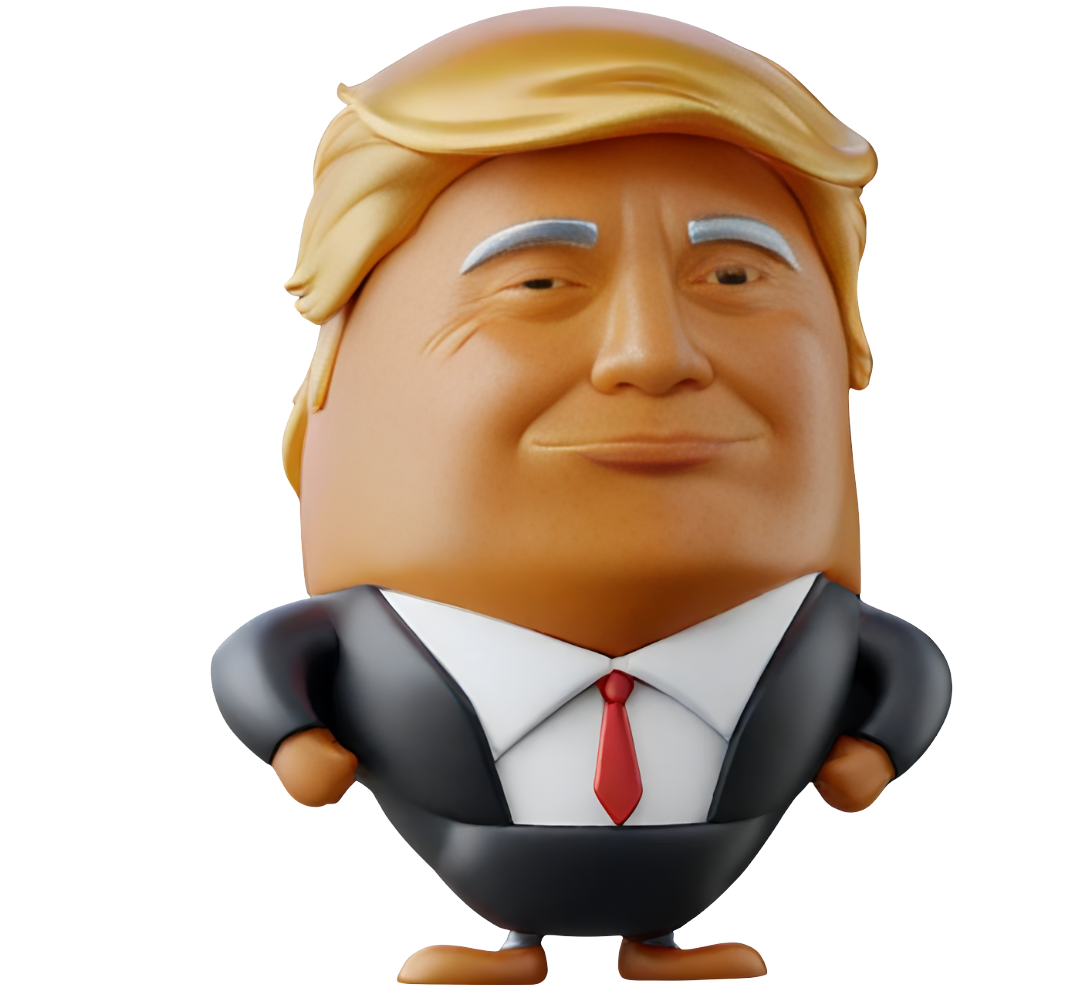
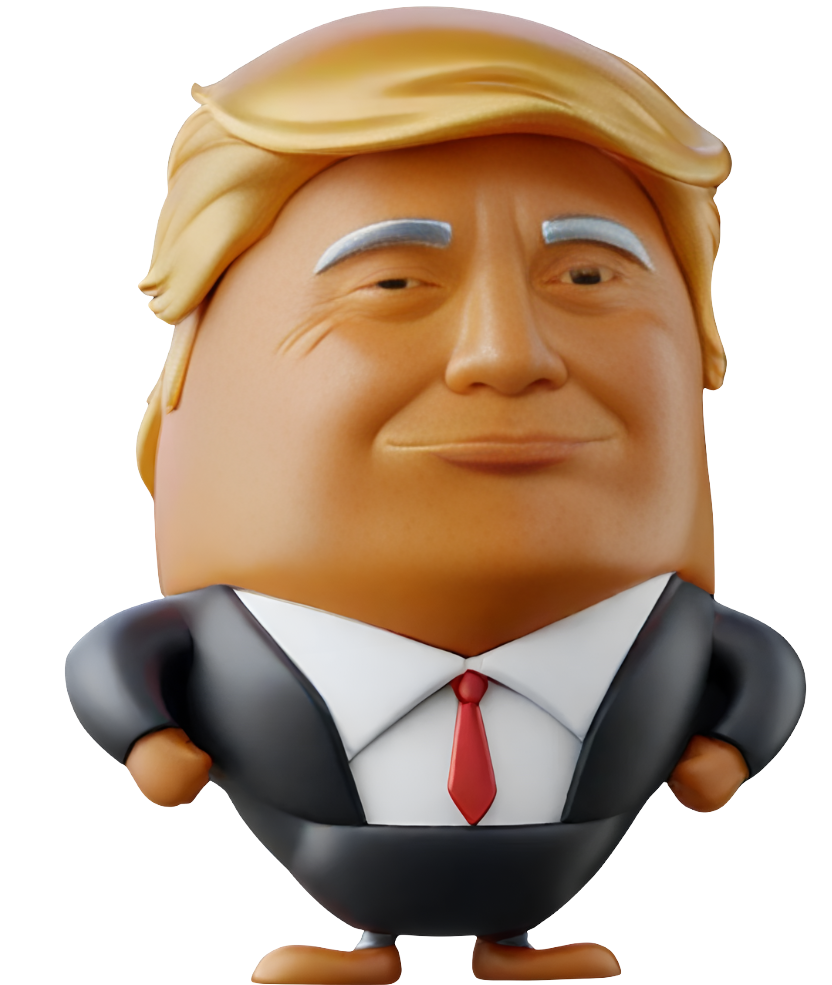
adjusting the mobile ui

diff --git a/src/app/_components/leaderboard.tsx b/src/app/_components/leaderboard.tsx
@@ -28,21 +28,21 @@ export const CountryVoteUi : React.FC<{countryVotes: CountryInfoDb  , index : nu
                             break;
                 
     }
-    return <div className="w-full flex relative countryLeaderBoardItem   items-center  px-4" >   
-    <div  className="flex items-center w-[30%]   gap-3 " >
-    <div className="min-w-[50px] max-w-[50px] flex items-center justify-center relative" >{medalSrcImg ? <img src={medalSrcImg} alt="medal" className="w-full " /> :  <h3 className="text-2xl  block  font-bold "  >#{index + 1 }</h3>}</div>
-    <img src={`/flags/${countryVotes.countrySymbol.trim().toLocaleLowerCase()}.png`} className="w-[74px] border border-black " />
+    return <div className="w-full flex relative countryLeaderBoardItem   items-center px-1  lg:px-4" >   
+    <div  className="flex items-center w-[30%] gap-1   lg:gap-3 " >
+    <div className="min-w-[30px] max-w-[30px] lg:min-w-[50px] lg:max-w-[50px] flex items-center justify-center relative" >{medalSrcImg ? <img src={medalSrcImg} alt="medal" className="w-full " /> :  <h3 className="text-lg lg:text-2xl  block  font-bold "  >#{index + 1 }</h3>}</div>
+    <img src={`/flags/${countryVotes.countrySymbol.trim().toLocaleLowerCase()}.png`} className="w-[30px] lg:w-[74px] border border-black " />
     <h4 style={{color : "black" , margin: 0  , textAlign: "start"}} className="H6 " >{countryName}</h4>
     </div>
-    <div className="w-full flex px-2 py-8 items-center justify-between" >
-     <div className="w-full flex  items-center justify-end  gap-2  " >
-     <h6 style={{color : "black" , margin: 0}} className="H6" >{countryVotes.trump.toLocaleString()}</h6>
+    <div className="w-full flex px-2 py-3 lg:py-8 items-center justify-between" >
+     <div className="w-full flex  items-center justify-end  gap-1 lg:gap-2  " >
+     <h6 style={{color : "black" , margin: 0}} className="H6 " >{countryVotes.trump.toLocaleString()}</h6>
 
-    <img  src="/trumpBody.png" className="w-[53px]" />
+    <img  src="/trumpBody.png" className="w-[53px] " />
     <h4 style={{color : "black" , margin: 0}} className="H6 hidden lg:block" >Trump</h4>
 
      </div>
-     <div className="w-full flex items-center  justify-end gap-2 " >
+     <div className="w-full flex items-center  justify-end gap-1 lg:gap-2 " >
      <h6 style={{color : "black" , margin: 0}} className="H6 " > {countryVotes.biden.toLocaleString()}</h6>
 
     <img  src="/harisImg.png" className="w-[53px]" />
@@ -113,10 +113,10 @@ if(acc.biden + acc.trump < countryVotes.biden+ countryVotes.trump) return countr
 else return acc
      }) : undefined
     return        <motion.div  initial={{y : 0}} animate={openLeaderboardAnimation} className={cn("  absolute bottom-0  w-full  mt-4 h-[65px] overflow-hidden   flex flex-col" , {"h-fit overflow-visible" : leaderboardOpened} )} >
-    <div className="px-8 py-4 bg-white bg-opacity-55 backdrop-blur rounded-t-lg   flex items-center justify-between" >
-    { greatestCountry ?  <div className="flex gap-1 items-center  " ><h4 style={{margin : 0 , color : "black" }} className="H7" >#1</h4>    <img src={`/flags/${greatestCountry.countrySymbol?.trim().toLowerCase()}.png`}  width="50px" /><h6 className="H7" style={{margin : 0 , color : "black"}} >{ (greatestCountry.trump + greatestCountry.biden).toLocaleString() }</h6>    </div> : <div className="skeleton w-40 h-8" ></div> }
-    <div className="flex gap-4 items-center  " >
-    <img src={`/flags/${countrySymbol?.trim().toLowerCase()}.png`}  width="50px" />
+    <div className="px-3 lg:px-8 py-6 lg:py-4 bg-white bg-opacity-55 backdrop-blur rounded-t-lg   flex items-center justify-between" >
+    { greatestCountry ?  <div className="flex gap-1 items-center  " ><h4 style={{margin : 0 , color : "black" }} className="H7" >#1</h4>    <img src={`/flags/${greatestCountry.countrySymbol?.trim().toLowerCase()}.png`}  className="w-[30px] lg:w-[50px]" /><h6 className="H7" style={{margin : 0 , color : "black"}} >{ (greatestCountry.trump + greatestCountry.biden).toLocaleString() }</h6>    </div> : <div className="skeleton w-40 h-8" ></div> }
+    <div className="flex gap-1 lg:gap-4 items-center  " >
+    <img src={`/flags/${countrySymbol?.trim().toLowerCase()}.png`}  className="w-[30px] lg:w-[50px]" />
     <h6 className="H7" style={{margin : 0 , color : "black"}}>{ (totalCountryVotes?.toLocaleString()) || 0 }</h6>
     {leaderboardOpened ? <img onClick={closeLeaderBoard} src="/icons/dropDown.svg " className="w-[25px] rotate-180 cursor-pointer" /> :  <div className="relative"  ><img className="absolute -left-10 -top-20 min-w-[100px] min-h-[100]"  src="/clickAnimation.gif" /> <img onClick={openLeaderBoard} src="/icons/dropDown.svg " className="w-[25px]  z-50 relative cursor-pointer" /></div>}
     </div>

diff --git a/src/app/_components/votingUi.tsx b/src/app/_components/votingUi.tsx
@@ -81,12 +81,12 @@ const handleBidenClick = ()=>{
    <img  className="w-[300px] lg:w-[250px] " src="/trumpText.png" />
    <div className="relative flex items-center justify-center  overflow-visible h-fit " >
     {votingTrump &&  <img src="/animationPic.gif" className="absolute z-10 min-w-[350px]  lg:min-w-[500px]  "  />}
-    <img    className="w-[380px] lg:w-[300px] relative z-20 cursor-pointer" onClick={handleTrumpClick} src="/trumpBody.png" /></div>
+    <img    className="w-[380px] lg:w-[200px] relative z-20 cursor-pointer" onClick={handleTrumpClick} src="/trumpBody.png" /></div>
    </div>
-   <div className="flex flex-col pt-28 lg:pt-8 w-[300px]  gap-4 items-center justify-between " >
+   <div className="flex flex-col pt-5 lg:pt-8 w-[300px]  gap-4 items-center justify-between " >
    <div className="z-0  absolute top-1/2 flex  justify-center left-1/2 w-7/12 -translate-x-1/2 -translate-y-1/2" >
    <img src="/vsBg.png" className="absolute z-[1]  lg:hidden opacity-70  top-1/2 left-1/2 -translate-x-1/2 -translate-y-1/2 w-full"  />
-   <img src="/vs.png"  className="z-[2]  w-[180px] -translate-y-12 lg:-translate-y-28" />
+   <img src="/vs.png"  className="z-[2] w-[120px]  lg:w-[180px] -translate-y-12 lg:-translate-y-28" />
    </div>
 <div className="mt-20" ><TotalVotes/></div>
 <div className="hidden lg:block" >   <MyVotesSection/></div>
@@ -98,7 +98,7 @@ const handleBidenClick = ()=>{
    <img className="w-[300px] lg:w-[250px] " src="/harisName.png" />
    <div className="relative flex items-center justify-center  overflow-visible h-fit " >
    {votingBiden &&  <img src="/animationPic.gif" className="absolute z-10 min-w-[350px]  lg:min-w-[500px]  "  />}
-   <img className="w-[380px] lg:w-[300px] z-20  cursor-pointer"  onClick={handleBidenClick} src="/harisImg.png" />
+   <img className="w-[380px] lg:w-[200px] z-20  cursor-pointer"  onClick={handleBidenClick} src="/harisImg.png" />
    </div>
    </div>
 

diff --git a/src/app/page.tsx b/src/app/page.tsx
@@ -21,14 +21,13 @@ export default async function Home() {
 
   
    return (
-    <main style={{minHeight : "100vh"}} className="lg:max-w-[1500px] h-fit pb-16    relative max-w-full min-h-[100vh] justify-start lg:max-h-screen overflow-hidden flex items-center  flex-col  pt-3 lg:pt-0 px-3   ">
+    <div style={{minHeight : "100vh" , margin: "0px" }} className="lg:max-w-[1500px]  pb-16   relative max-w-full justify-between lg:max-h-screen overflow-hidden flex items-center  flex-col    px-3 h-full  ">
       <HeaderButtonsDesktop/>
       <PageButtons/>
 
-      <h5 style={{margin : 0}} className="text-2xl lg:text-3xl text-white tracking-wider font-bold lg:mt-0 mt-11 text-center" >Tap on your favorite Spudz candidate to cast your vote!</h5>
+      <h5 style={{margin : 0}} className="text-lg leading-4 lg:text-3xl text-white  font-bold lg:mt-0 mt-8 text-center" >Tap on your favorite Spudz candidate to cast your vote!</h5>
       <img src="/pageFlag.png" className="hidden" width="820px" />
       <VotingUi/>
-      {/* <div className="block lg:hidden" ><TotalVotes/></div> */}
       <div className="lg:hidden my-2" > <MyVotesSection/></div>
 
       <div id="votesComperation" className="flex   justify-around lg:justify-between px-2 lg:px-16 w-full " >
@@ -38,8 +37,8 @@ export default async function Home() {
        </div>
         <BidenVotes/>
        </div>
-       <img  className="mt-2 w-[400px] lg:hidden" src="/leaderboard.png"   />
+       <img  className="mt-2 w-[200px] lg:hidden" src="/leaderboard.png"   />
        <LeaderBoard countriesVotes={allCountriesVotes} ipAddress={ipAddress || ""}/>
-    </main>
+    </div>
   );
 }

diff --git a/src/app/_components/buttons.tsx b/src/app/_components/buttons.tsx
@@ -30,8 +30,8 @@ const onHoverStart = ()=>{
 
 export const PageButtons = ()=>{
     return <div  className="flex py-3  px-1 lg:hidden w-full  relative  z-10  items-center justify-around" >
-              <img  width="200px" src="/buyNow.png" style={{margin :0 }} />
-              <motion.button whileHover={{scale : 1.1}} className="relative z-20 lg:block px-6 py-2  text-xl bg-green-700 text-white font-bold border-4 rounded-xl border-white" >ABOUT $SPUDZ</motion.button>
+              <img  className="w-[130px] lg:w-[200px]" src="/buyNow.png" style={{margin :0 }} />
+              <motion.button whileHover={{scale : 1.1}} className="relative z-20 lg:block lg:px-6 px-2 py-1 lg:py-2  lg:text-xl bg-green-700 text-white font-bold border-4 rounded-xl border-white" >ABOUT $SPUDZ</motion.button>
               </div>
 }
 

diff --git a/src/app/globals.css b/src/app/globals.css
@@ -32,15 +32,15 @@ html {
 }
 
 
-@media screen and (max-width : 650px) {
+/* @media screen and (max-width : 650px) {
   html {
     zoom: 60%;
   }
-}
+} */
 
 
 .H7 {
-  @apply text-xl text-white tracking-wider font-bold mt-11 text-center m-0
+  @apply text-base lg:text-xl text-white tracking-wider font-bold mt-11 text-center m-0
 }
 
 
@@ -54,12 +54,12 @@ html {
 }
 
 .H4 {
-  @apply text-2xl lg:text-4xl text-white tracking-wider font-bold mt-11 text-center  m-0 leading-none
+  @apply text-xl lg:text-4xl text-white tracking-wider font-bold mt-11 text-center  m-0 leading-none
 }
 
 
 .H1 {
-  @apply text-9xl text-white tracking-wider font-bold mt-11 text-center  m-0
+  @apply  text-9xl text-white tracking-wider font-bold mt-11 text-center  m-0
 }
 
 .skeleton {

diff --git a/src/app/layout.tsx b/src/app/layout.tsx
@@ -21,7 +21,7 @@ export default function RootLayout({
 
   return (
     <html lang="en">
-   <body className="flex flex-col justify-center  items-center lg:pt-2 pt-1  bg-black w-full h-full">
+   <body className="flex flex-col justify-stretch min-h-screen  relative  items-center pb-0 lg:pt-2 pt-1 bg-black w-full h-full">
     <AppProvider>{children}</AppProvider>
     </body>
     </html>
